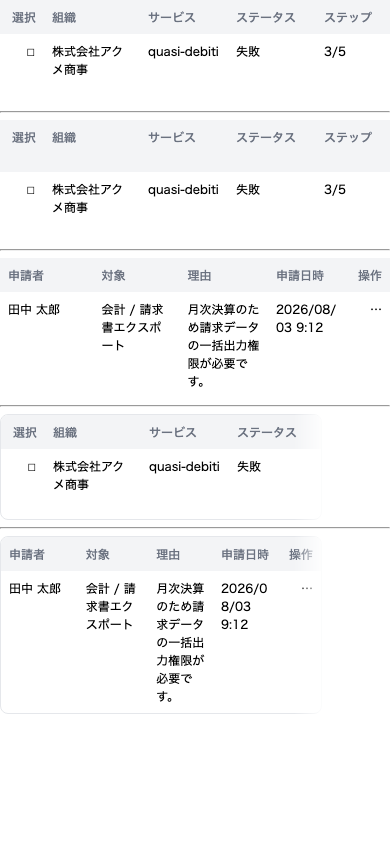
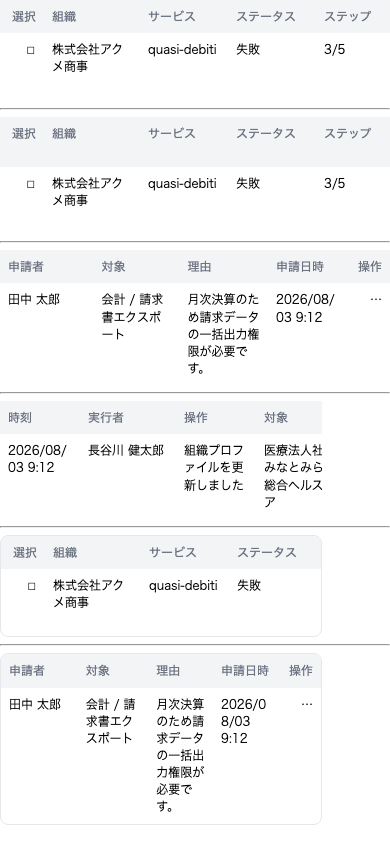
fix(table): the action-collection floor gated on column COUNT, and the count was never the variable (gh#844)
`preset="action-collection"` has compact-mode width floors, and they were
assigned only to a table with seven or more columns:

  [data-collapse-below="sm"] [data-slot="table"]:has(…:nth-child(7))

The comment above it stated the assumption — "up to six columns the percentage
ratios still resolve to readable measures at every acceptance artboard" — and
measurement says that is false, for a reason the comment did not consider.

WHY 7 WAS CHOSEN, AND WHY IT IS THE WRONG AXIS. The threshold was deliberate,
not an artefact: c0fa8ca5 introduced it because the first #262 fix applied the
rem floors to the WHOLE compact tier, and the canonical five-column queue's
floors then summed to 388px inside a 278–322px artboard — a horizontal scroll
where gh#253 had accepted none. Seven is the count at which the shares are
GUARANTEED to over-sum, so it is a sound sufficient condition. It is not a
necessary one. The compact measures are PER-COLUMN percentages, not shares of
a sum: a `primary` column is 24% of the table whether the table has three
columns or six. So the column count does not predict readability at all. What
over-subscribes the budget is REPEATING a tier, and the surplus comes out of
the one `auto` free-text column.

MEASURED, 390px viewport, lang=ja, Chromium, worst characters per line
(scripts/table-collection-cjk-visual.mjs and an ad-hoc sweep at both the bare
390 frame and a 340px card content box):

  columns / shape                  before        after
[…]

diff --git a/src/styles/table-layout.css b/src/styles/table-layout.css
@@ -845,9 +845,22 @@
       white-space: normal;
     }
 
-    /* Up to six columns this rule never matches and the percent tier above keeps the canonical
-     * queues scroll-free — the preset's documented column-count ceiling. */
-    [data-collapse-below="sm"] [data-slot="table"]:has([data-slot="table-head"]:nth-child(7)) {
+    /* The floor tier engages when the percent budget is OVER-SUBSCRIBED. Seven columns is one way
+     * to over-subscribe it — not the only one, and not the common one (gh#844): the compact
+     * percentages are per-column, not shares of a sum, so a REPEATED tier over-subscribes the
+     * budget at ANY column count and takes the surplus out of the free-text column. A
+     * budget-shaped queue (one column per priority, one free-text column) matches none of them
+     * and keeps its scroll-free percent tier byte-for-byte. See tokens/components/table.css. */
+    [data-collapse-below="sm"]
+      [data-slot="table"]:has(
+        [data-slot="table-head"]:nth-child(7),
+        [data-slot="table-head"][data-priority="primary"]
+          ~ [data-slot="table-head"][data-priority="primary"],
+        [data-slot="table-head"][data-priority="secondary"]
+          ~ [data-slot="table-head"][data-priority="secondary"],
+        [data-slot="table-head"][data-priority="meta"]
+          ~ [data-slot="table-head"][data-priority="meta"]
+      ) {
       --table-action-collection-primary-width: var(--table-action-collection-primary-width-floor);
       --table-action-collection-secondary-width: var(
         --table-action-collection-secondary-width-floor
@@ -879,9 +892,22 @@
       white-space: normal;
     }
 
-    /* Up to six columns this rule never matches and the percent tier above keeps the canonical
-     * queues scroll-free — the preset's documented column-count ceiling. */
-    [data-collapse-below="md"] [data-slot="table"]:has([data-slot="table-head"]:nth-child(7)) {
+    /* The floor tier engages when the percent budget is OVER-SUBSCRIBED. Seven columns is one way
+     * to over-subscribe it — not the only one, and not the common one (gh#844): the compact
+     * percentages are per-column, not shares of a sum, so a REPEATED tier over-subscribes the
+     * budget at ANY column count and takes the surplus out of the free-text column. A
+     * budget-shaped queue (one column per priority, one free-text column) matches none of them
+     * and keeps its scroll-free percent tier byte-for-byte. See tokens/components/table.css. */
+    [data-collapse-below="md"]
+      [data-slot="table"]:has(
+        [data-slot="table-head"]:nth-child(7),
+        [data-slot="table-head"][data-priority="primary"]
+          ~ [data-slot="table-head"][data-priority="primary"],
+        [data-slot="table-head"][data-priority="secondary"]
+          ~ [data-slot="table-head"][data-priority="secondary"],
+        [data-slot="table-head"][data-priority="meta"]
+          ~ [data-slot="table-head"][data-priority="meta"]
+      ) {
       --table-action-collection-primary-width: var(--table-action-collection-primary-width-floor);
       --table-action-collection-secondary-width: var(
         --table-action-collection-secondary-width-floor
@@ -913,9 +939,22 @@
       white-space: normal;
     }
 
-    /* Up to six columns this rule never matches and the percent tier above keeps the canonical
-     * queues scroll-free — the preset's documented column-count ceiling. */
-    [data-collapse-below="lg"] [data-slot="table"]:has([data-slot="table-head"]:nth-child(7)) {
+    /* The floor tier engages when the percent budget is OVER-SUBSCRIBED. Seven columns is one way
+     * to over-subscribe it — not the only one, and not the common one (gh#844): the compact
+     * percentages are per-column, not shares of a sum, so a REPEATED tier over-subscribes the
+     * budget at ANY column count and takes the surplus out of the free-text column. A
+     * budget-shaped queue (one column per priority, one free-text column) matches none of them
+     * and keeps its scroll-free percent tier byte-for-byte. See tokens/components/table.css. */
+    [data-collapse-below="lg"]
+      [data-slot="table"]:has(
+        [data-slot="table-head"]:nth-child(7),
+        [data-slot="table-head"][data-priority="primary"]
+          ~ [data-slot="table-head"][data-priority="primary"],
+        [data-slot="table-head"][data-priority="secondary"]
+          ~ [data-slot="table-head"][data-priority="secondary"],
+        [data-slot="table-head"][data-priority="meta"]
+          ~ [data-slot="table-head"][data-priority="meta"]
+      ) {
       --table-action-collection-primary-width: var(--table-action-collection-primary-width-floor);
       --table-action-collection-secondary-width: var(
         --table-action-collection-secondary-width-floor
@@ -947,9 +986,22 @@
       white-space: normal;
     }
 
-    /* Up to six columns this rule never matches and the percent tier above keeps the canonical
-     * queues scroll-free — the preset's documented column-count ceiling. */
-    [data-collapse-below="xl"] [data-slot="table"]:has([data-slot="table-head"]:nth-child(7)) {
+    /* The floor tier engages when the percent budget is OVER-SUBSCRIBED. Seven columns is one way
+     * to over-subscribe it — not the only one, and not the common one (gh#844): the compact
+     * percentages are per-column, not shares of a sum, so a REPEATED tier over-subscribes the
+     * budget at ANY column count and takes the surplus out of the free-text column. A
+     * budget-shaped queue (one column per priority, one free-text column) matches none of them
+     * and keeps its scroll-free percent tier byte-for-byte. See tokens/components/table.css. */
+    [data-collapse-below="xl"]
+      [data-slot="table"]:has(
+        [data-slot="table-head"]:nth-child(7),
+        [data-slot="table-head"][data-priority="primary"]
+          ~ [data-slot="table-head"][data-priority="primary"],
+        [data-slot="table-head"][data-priority="secondary"]
+          ~ [data-slot="table-head"][data-priority="secondary"],
+        [data-slot="table-head"][data-priority="meta"]
+          ~ [data-slot="table-head"][data-priority="meta"]
+      ) {
       --table-action-collection-primary-width: var(--table-action-collection-primary-width-floor);
       --table-action-collection-secondary-width: var(
         --table-action-collection-secondary-width-floor

diff --git a/mcp/src/data/component-tokens.generated.ts b/mcp/src/data/component-tokens.generated.ts
@@ -7656,7 +7656,7 @@ export const COMPONENT_TOKENS: ComponentToken[] = [
   {
     "name": "--table-action-collection-primary-width-floor",
     "value": "6rem",
-    "description": "Wide-collection FLOORS — the compact measures from SEVEN columns up (gh#262). * * Percentage measures stop working once a queue carries enough columns for the shares to sum * past 100%: `table-layout: fixed` NORMALIZES them back into the table's specified width, so at * ~10 columns on a 390px frame a \"24%\" column really renders at a tenth of the frame, every * column drops below one CJK glyph, and JA headers shred into a vertical one-character-per-line * column (the failure mode WCAG 2.2 SC 1.4.10 Reflow exists to prevent). Cell `min-inline-size` * and `max(%, length)` widths are equally inert in the fixed algorithm, and the intrinsic * (max-content) size of a fixed-layout table is degenerate — all verified in Chromium — so a * LENGTH is the only floor an engine respects: length columns are never squeezed, and when * their sum outgrows the container the table's used width grows past its specified 100% * (CSS 2.1 §17.5.2.1) into the keyboard-reachable overflow-x wrapper, which scrolls. * ONE-dimensional scrolling of a data table is explicitly permitted by SC 1.4.10; * one-character-per-line is not readable at all. * * The stylesheet switches tiers on a COLUMN BUDGET, not on width: up to six columns the * percentage ratios above still resolve to readable measures at every acceptance artboard * (320 · 375 · 390), so the canonical five-column approval queue keeps its documented * scroll-free 390 frame byte-for-byte; from seven columns the shares are guaranteed to * over-sum and the floors + intentional scroll take over. That budget is the preset's * documented column-count ceiling (gh#262 expectation 3): past six columns the preset stops * compressing and starts scrolling. * * Units are rem, not ch: `ch` tracks the \"0\" glyph (~half a CJK em), so a ch-denominated floor * would silently halve for the JA copy these floors exist to protect. At the compact type tier * (font-size-xs = 0.75rem, space-2 inline padding each side) the 5rem meta floor keeps a ~4rem * text measure = 5 full-width glyphs per line — a JA header wraps to two readable lines, never * a character column."
+    "description": "Wide-collection FLOORS — the compact measures wherever the priority budget is * OVER-SUBSCRIBED (gh#262, gh#844). * * Percentage measures stop working once a queue carries enough columns for the shares to sum * past 100%: `table-layout: fixed` NORMALIZES them back into the table's specified width, so at * ~10 columns on a 390px frame a \"24%\" column really renders at a tenth of the frame, every * column drops below one CJK glyph, and JA headers shred into a vertical one-character-per-line * column (the failure mode WCAG 2.2 SC 1.4.10 Reflow exists to prevent). Cell `min-inline-size` * is inert in the fixed algorithm, `max(%, length)` resolves to neither operand (below), and * the intrinsic (max-content) size of a fixed-layout table is degenerate — all in Chromium — so a * LENGTH is the only floor an engine respects: length columns are never squeezed, and when * their sum outgrows the container the table's used width grows past its specified 100% * (CSS 2.1 §17.5.2.1) into the keyboard-reachable overflow-x wrapper, which scrolls. * ONE-dimensional scrolling of a data table is explicitly permitted by SC 1.4.10; * one-character-per-line is not readable at all. * * The stylesheet switches tiers on the BUDGET, not on width. The budget is one column per * priority tier plus one free-text column; the floors engage wherever a queue asks for more * than that, and a queue that fits it keeps its scroll-free percent tier byte-for-byte. * * Two ways to ask for more, and gh#262 only saw the first: * SEVEN COLUMNS. With five distinct column kinds, seven columns must repeat something, so * the shares are guaranteed to over-sum (gh#262 expectation 3). * A REPEATED TIER, at ANY column count (gh#844). The compact measures are per-column * percentages, NOT shares of a sum: a `primary` column is 24% of the table whether the * table has three columns or six. So the column count does not predict readability at all * — what over-subscribes the budget is repeating a tier, and the surplus comes out of the * `auto` free-text column. Measured at 390 with a 340px card content box, a FIVE-column JA * queue carrying two `meta` columns left its free-text column 47.6px wide: 15 glyphs over * 8 line boxes, 1.9 characters per line — the same shred gh#262 fixed at ten columns, * three columns below the ceiling that was supposed to make it impossible. The same queue * on the floors is 4.75 characters per line and scrolls, which is the trade SC 1.4.10 * already sanctions above. * * `max(%, length)` is not an alternative to the switch. It is not merely ignored: in the * fixed algorithm Chromium resolves `max(24%, 6rem)` on a 340px table to 113px — neither the * 81.6px percentage nor the 96px floor — so it cannot express \"this column, floored\". * * Units are rem, not ch: `ch` tracks the \"0\" glyph (~half a CJK em), so a ch-denominated floor * would silently halve for the JA copy these floors exist to protect. At the compact type tier * (font-size-xs = 0.75rem, space-2 inline padding each side) the 5rem meta floor keeps a ~4rem * text measure = 5 full-width glyphs per line — a JA header wraps to two readable lines, never * a character column."
   },
   {
     "name": "--table-action-collection-secondary-width-floor",

diff --git a/src/tokens/components/table.css b/src/tokens/components/table.css
@@ -121,28 +121,43 @@
   --table-action-collection-secondary-width-compact: 22%;
   --table-action-collection-meta-width-compact: 20%;
   --table-action-collection-actions-width-compact: 2.75rem;
-  /* Wide-collection FLOORS — the compact measures from SEVEN columns up (gh#262).
+  /* Wide-collection FLOORS — the compact measures wherever the priority budget is
+   * OVER-SUBSCRIBED (gh#262, gh#844).
    *
    * Percentage measures stop working once a queue carries enough columns for the shares to sum
    * past 100%: `table-layout: fixed` NORMALIZES them back into the table's specified width, so at
    * ~10 columns on a 390px frame a "24%" column really renders at a tenth of the frame, every
    * column drops below one CJK glyph, and JA headers shred into a vertical one-character-per-line
    * column (the failure mode WCAG 2.2 SC 1.4.10 Reflow exists to prevent). Cell `min-inline-size`
-   * and `max(%, length)` widths are equally inert in the fixed algorithm, and the intrinsic
-   * (max-content) size of a fixed-layout table is degenerate — all verified in Chromium — so a
+   * is inert in the fixed algorithm, `max(%, length)` resolves to neither operand (below), and
+   * the intrinsic (max-content) size of a fixed-layout table is degenerate — all in Chromium — so a
    * LENGTH is the only floor an engine respects: length columns are never squeezed, and when
    * their sum outgrows the container the table's used width grows past its specified 100%
    * (CSS 2.1 §17.5.2.1) into the keyboard-reachable overflow-x wrapper, which scrolls.
    * ONE-dimensional scrolling of a data table is explicitly permitted by SC 1.4.10;
    * one-character-per-line is not readable at all.
    *
-   * The stylesheet switches tiers on a COLUMN BUDGET, not on width: up to six columns the
-   * percentage ratios above still resolve to readable measures at every acceptance artboard
-   * (320 · 375 · 390), so the canonical five-column approval queue keeps its documented
-   * scroll-free 390 frame byte-for-byte; from seven columns the shares are guaranteed to
-   * over-sum and the floors + intentional scroll take over. That budget is the preset's
-   * documented column-count ceiling (gh#262 expectation 3): past six columns the preset stops
-   * compressing and starts scrolling.
+   * The stylesheet switches tiers on the BUDGET, not on width. The budget is one column per
+   * priority tier plus one free-text column; the floors engage wherever a queue asks for more
+   * than that, and a queue that fits it keeps its scroll-free percent tier byte-for-byte.
+   *
+   * Two ways to ask for more, and gh#262 only saw the first:
+   *   SEVEN COLUMNS. With five distinct column kinds, seven columns must repeat something, so
+   *   the shares are guaranteed to over-sum (gh#262 expectation 3).
+   *   A REPEATED TIER, at ANY column count (gh#844). The compact measures are per-column
+   *   percentages, NOT shares of a sum: a `primary` column is 24% of the table whether the
+   *   table has three columns or six. So the column count does not predict readability at all
+   *   — what over-subscribes the budget is repeating a tier, and the surplus comes out of the
+   *   `auto` free-text column. Measured at 390 with a 340px card content box, a FIVE-column JA
+   *   queue carrying two `meta` columns left its free-text column 47.6px wide: 15 glyphs over
+   *   8 line boxes, 1.9 characters per line — the same shred gh#262 fixed at ten columns,
+   *   three columns below the ceiling that was supposed to make it impossible. The same queue
+   *   on the floors is 4.75 characters per line and scrolls, which is the trade SC 1.4.10
+   *   already sanctions above.
+   *
+   * `max(%, length)` is not an alternative to the switch. It is not merely ignored: in the
+   * fixed algorithm Chromium resolves `max(24%, 6rem)` on a 340px table to 113px — neither the
+   * 81.6px percentage nor the 96px floor — so it cannot express "this column, floored".
    *
    * Units are rem, not ch: `ch` tracks the "0" glyph (~half a CJK em), so a ch-denominated floor
    * would silently halve for the JA copy these floors exist to protect. At the compact type tier

diff --git a/src/components/data-display/__tests__/table-structural-selectors.test.tsx b/src/components/data-display/__tests__/table-structural-selectors.test.tsx
@@ -5,6 +5,7 @@ import { describe, expect, it } from "vitest";
 import { renderWithUi } from "@/test/render";
 import { ruleSelector } from "@/test/css-selector";
 import { DataTable } from "../data-table";
+import type { TableColumnPriorityProp } from "@/props/vocabulary";
 import { Table, TableBody, TableCell, TableHead, TableHeader, TableRow } from "../table";
 
 /**
@@ -81,7 +82,7 @@ describe("table-layout.css structural selectors select the rendered DOM", () => 
     (bp) => {
       const selector = ruleSelector(
         css,
-        `[data-collapse-below="${bp}"] [data-slot="table"]:has([data-slot="table-head"]:nth-child(7))`,
+        `[data-collapse-below="${bp}"] [data-slot="table"]:has(`,
       );
       const header = (count: number) => (
         <TableHeader>
@@ -110,6 +111,66 @@ describe("table-layout.css structural selectors select the rendered DOM", () => 
       const table = (id: string) => container.querySelector(`[data-testid="${id}"] table`)!;
       expect(table("seven").matches(selector)).toBe(true);
       expect(table("six").matches(selector)).toBe(false);
+    },
+  );
+
+  /**
+   * gh#844 — the column count was never the variable. The compact measures are PER-COLUMN
+   * percentages, so a five-column queue that repeats one tier over-subscribes the budget exactly
+   * as a ten-column one does, and the surplus comes out of the `auto` free-text column: measured
+   * at 390 in a 340px card, 1.9 CJK characters per line. The floor tier has to engage on the
+   * repetition, not on the count — and a budget-shaped queue must still not match, or the gh#253
+   * canonical queue loses its scroll-free frame.
+   */
+  it.each(["sm", "md", "lg", "xl"] as const)(
+    "action-collection floor tier engages on a REPEATED tier at five columns (collapseBelow=%s)",
+    (bp) => {
+      const selector = ruleSelector(
+        css,
+        `[data-collapse-below="${bp}"] [data-slot="table"]:has(`,
+      );
+      const queue = (priorities: (TableColumnPriorityProp | undefined)[]) => (
+        <Table preset="action-collection" collapseBelow={bp}>
+          <TableHeader>
+            <TableRow>
+              {priorities.map((priority, i) => (
+                <TableHead key={i} priority={priority} scope="col">
+                  c{i}
+                </TableHead>
+              ))}
+            </TableRow>
+          </TableHeader>
+        </Table>
+      );
+      const { container } = renderWithUi(
+        <>
+          {/* The reporter's queue: 時刻 · 実行者 · 操作 · 対象 · 結果 — `meta` twice. */}
+          <div data-testid="repeat-meta">
+            {queue(["meta", "primary", undefined, "secondary", "meta"])}
+          </div>
+          <div data-testid="repeat-secondary">
+            {queue(["secondary", "primary", undefined, "secondary", "meta"])}
+          </div>
+          <div data-testid="repeat-primary">
+            {queue(["primary", "primary", undefined, "secondary", "meta"])}
+          </div>
+          {/* The gh#253 canonical queue — one column per tier, one free-text column. */}
+          <div data-testid="budget-shaped">
+            {queue(["primary", "secondary", undefined, "meta", "actions"])}
+          </div>
+          {/* `actions` is already an absolute measure, so repeating it is not over-subscription. */}
+          <div data-testid="repeat-actions">
+            {queue(["actions", "primary", undefined, "meta", "actions"])}
+          </div>
+        </>,
+      );
+
+      const table = (id: string) => container.querySelector(`[data-testid="${id}"] table`)!;
+      expect(table("repeat-meta").matches(selector)).toBe(true);
+      expect(table("repeat-secondary").matches(selector)).toBe(true);
+      expect(table("repeat-primary").matches(selector)).toBe(true);
+      expect(table("budget-shaped").matches(selector)).toBe(false);
+      expect(table("repeat-actions").matches(selector)).toBe(false);
     },
   );
 

diff --git a/src/components/data-display/__tests__/table-action-collection.test.tsx b/src/components/data-display/__tests__/table-action-collection.test.tsx
@@ -186,13 +186,22 @@ describe("Table action-collection priority floors (gh#262)", () => {
     }
   });
 
-  it("switches to the floor tier at the documented seven-column budget, at every step", () => {
-    // The budget is a `:has()` column-count gate per collapse step: within six columns the rule
-    // never matches (percent tier, scroll-free canon); from seven the shares are guaranteed to
-    // over-sum and every column — the unmarked free-text one included, which `auto` would
-    // collapse to 0px — takes its rem floor, so the table grows and the wrapper scrolls.
+  it("switches to the floor tier when the budget is over-subscribed, at every step", () => {
+    // The budget is one column per priority tier plus one free-text column, and the `:has()` gate
+    // per collapse step asks whether a queue exceeds it. Seven columns always do. A REPEATED
+    // percent tier does too, at any column count (gh#844) — the compact measures are per-column
+    // percentages, not shares, so two `meta` columns on a five-column queue take the surplus out
+    // of the `auto` free-text column and shred it. Either way every column — the unmarked
+    // free-text one included, which `auto` would collapse to 0px — takes its rem floor, so the
+    // table grows and the wrapper scrolls. `actions` is already an absolute measure, so repeating
+    // it over-subscribes nothing and is deliberately NOT an arm.
+    const head = '[data-slot="table-head"]';
     const gate =
-      ':has([data-slot="table-head"]:nth-child(7)){--table-action-collection-primary-width:var(--table-action-collection-primary-width-floor);';
+      `:has(${head}:nth-child(7),` +
+      `${head}[data-priority="primary"]~${head}[data-priority="primary"],` +
+      `${head}[data-priority="secondary"]~${head}[data-priority="secondary"],` +
+      `${head}[data-priority="meta"]~${head}[data-priority="meta"])` +
+      "{--table-action-collection-primary-width:var(--table-action-collection-primary-width-floor);";
     expect(tableCssFlat.split(gate).length - 1).toBe(4); // sm / md / lg / xl
     const flexFloor =
       "--table-action-collection-flex-width:var(--table-action-collection-flex-width-floor)";
